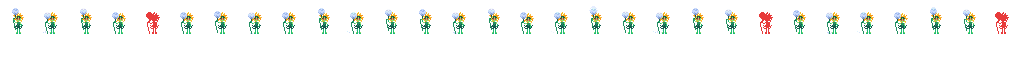
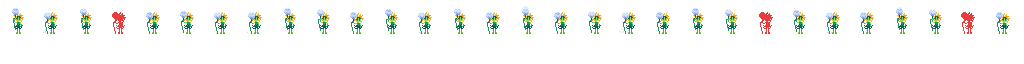
chest animation

diff --git a/core/src/main/java/io/github/some_example_name/screens/LootScreen.java b/core/src/main/java/io/github/some_example_name/screens/LootScreen.java
@@ -7,10 +7,14 @@ import com.badlogic.gdx.scenes.scene2d.ui.*;
 import com.badlogic.gdx.scenes.scene2d.Stage;
 import com.badlogic.gdx.utils.ScreenUtils;
 import com.badlogic.gdx.utils.viewport.ScreenViewport;
+import io.github.some_example_name.Animations;
 import io.github.some_example_name.Main;
 import io.github.some_example_name.Player;
 import io.github.some_example_name.enemies.Enemy;
 import io.github.some_example_name.tools.ToolContainer;
+
+import java.util.HashMap;
+import java.util.Map;
 
 
 public class LootScreen implements Screen {
@@ -27,10 +31,16 @@ public class LootScreen implements Screen {
 
     private final Texture temporary;
 
+    private Animations chestAnimations;
+
     public LootScreen(Main game, Player player, Enemy enemy) {
         this.game = game;
         this.player = player;
         this.enemy = enemy;
+
+        Map<String, Float> chestAnimationData = new HashMap<>();
+        chestAnimationData.put("ChestOpen", 0.1f);
+        chestAnimations = new Animations("atlas/ChestAtlas.atlas", chestAnimationData);
 
         backgroundTexture = new Texture("Backgrounds/lootbg_temp.png");
         backgroundTint = new Texture("Backgrounds/backgroundTint.png");
@@ -43,7 +53,6 @@ public class LootScreen implements Screen {
 
         stage = new Stage(new ScreenViewport());
         stage.addActor(new PauseMenuScreen(game, player, enemy).getPauseButton());
-        player.setupAnimations();
 
         TextButton openChestButton = new TextButton("Open!" ,new Skin(Gdx.files.internal("button/Buttons.json")));
         Table chestTable = new Table();
@@ -53,8 +62,9 @@ public class LootScreen implements Screen {
         rewardStage = new Stage(new ScreenViewport());
 
         openChestButton.addListener(e -> {
-            if (openChestButton.isPressed()) {
+            if (openChestButton.isPressed() && !chestOpen) {
                 chestOpen = true;
+                chestAnimations.performAnimation("ChestOpen");
             }
             return false;
         });
@@ -78,11 +88,14 @@ public class LootScreen implements Screen {
         stage.draw();
 
         if(chestOpen) {
-            player.doArmMovement();
+            player.animateArmMovement();
+            chestAnimations.update(delta);
             //TODO: animation delay
-            //TODO: ANIMATION chest opens
-            drawRewardScreen();
+            if (chestAnimations.isCurrentAnimationFinished()) {
+                drawRewardScreen();
+            }
         }
+
     }
 
     private void drawRoom() {
@@ -92,8 +105,12 @@ public class LootScreen implements Screen {
 
         game.batch.draw(backgroundTexture, 0, 0, game.getWorldWidth(), game.getWorldHeight());
         player.draw(game.batch, 1.1f, 2.2f, 3f, 3.4f);
-        //TODO: ANIMATION
-        game.batch.draw(chestTexture, 4.1f, 2.2f, 3f, 3.4f);
+
+        if (chestOpen) {
+            chestAnimations.draw(game.batch, 4.1f, 2.2f, 3f, 3.4f);
+        } else {
+            game.batch.draw(chestTexture, 4.1f, 2.2f, 3f, 3.4f);
+        }
 
         game.batch.end();
     }

diff --git a/core/src/main/java/io/github/some_example_name/Player.java b/core/src/main/java/io/github/some_example_name/Player.java
@@ -146,7 +146,7 @@ public class Player extends Entity
         actingTool.getMove().setTargetChange(targetChange);
 
         /// performs attack animation
-        doPolearmAttack();
+        animatePolearmAttack();
 
         actingTool.execute(this, super.getTarget());
     }
@@ -187,7 +187,6 @@ public class Player extends Entity
                 public void changed(ChangeEvent event, Actor actor)
                 {
                     setSelectedTool(tmpCurrentSlot);
-                    doPolearmAttack();
                     doMove();
                 }
             });
@@ -309,40 +308,40 @@ public class Player extends Entity
     }
 
     /// temp attack animation
-    public void doPolearmAttack() throws PlayerException {
+    public void animatePolearmAttack() throws PlayerException {
         performAnimation("GardenerPolearmAttack");
     }
 
-    public void doArmMovement() {
+    public void animateArmMovement() {
         performAnimation("GardenerEmptyAttack");
     }
 
-    public void doPolearmIdle() {
+    public void animatePolearmIdle() {
         performAnimation("GardenerPolearmIdle");
     }
 
-    public void takeEmptyDamage() {
+    public void animateTakeEmptyDamage() {
         performAnimation("GardenerEmptyDamage");
     }
 
-    public void takePolearmDamage() {
+    public void animateTakePolearmDamage() {
         performAnimation("GardenerPolearmDamage");
     }
 
     /// rough structure of animations when inventory and weapon types are implemented
     /*
-    public void doAttack() {
+    public void animateAttack() {
         String weaponType = getWeaponType();
         String animName = "Gardener" + weaponType + "Attack";
         performAnimation(animName);
     }
 
-    public void doIdle() {
+    public void animateIdle() {
         String weaponType = getWeaponType();
         performAnimation("Gardener" + weaponType + "Idle");
     }
 
-    public void takeDamage() {
+    public void animateTakeDamage() {
         String weaponType = getWeaponType();
         performAnimation("Gardener" + weaponType + "Damage");
     }

diff --git a/core/src/main/java/io/github/some_example_name/enemies/Enemy.java b/core/src/main/java/io/github/some_example_name/enemies/Enemy.java
@@ -7,17 +7,12 @@ import java.util.HashMap;
 import java.util.Map;
 
 
-import com.badlogic.gdx.graphics.Color;
 import com.badlogic.gdx.graphics.Texture;
 import com.badlogic.gdx.graphics.g2d.SpriteBatch;
-import com.badlogic.gdx.scenes.scene2d.Stage;
-import com.badlogic.gdx.utils.ScreenUtils;
-import com.badlogic.gdx.utils.viewport.ScreenViewport;
 import io.github.some_example_name.Animations;
 import io.github.some_example_name.Entity;
 import io.github.some_example_name.EntityException;
 import io.github.some_example_name.actions.BasicAction;
-import io.github.some_example_name.tools.Tool;
 
 public class Enemy extends Entity implements Serializable
 {
@@ -84,25 +79,25 @@ public class Enemy extends Entity implements Serializable
 
     public void setupAnimations() {
         Map<String, Float> animData = new HashMap<>();
-        animData.put("DefaultIdle", 0.5f);
+        animData.put("Idle", 0.5f);
         animData.put("Attack", 0.08f);
         animData.put("Damage", 0.1f);
 
         Animations enemyAnimations = new Animations("atlas/DandelionAtlas.atlas", animData);
         setAnimations(enemyAnimations);
-        setDefaultAnimation("DefaultIdle");
+        setDefaultAnimation("Idle");
     }
 
     /// performs these animations once
-    public void doDefaultIdle() {
+    public void animateDefaultIdle() {
         performAnimation("DefaultIdle");
     }
 
-    public void takeDamage() {
+    public void animateTakeDamage() {
         performAnimation("Damage");
     }
 
-    public void doAttack() {
+    public void animateAttack() {
         performAnimation("Attack");
     }
 

diff --git a/core/src/main/java/io/github/some_example_name/screens/CombatScreen.java b/core/src/main/java/io/github/some_example_name/screens/CombatScreen.java
@@ -52,11 +52,14 @@ public class CombatScreen implements Screen {
         enemy.setTarget(player);
 
         stage.addActor(new PauseMenuScreen(game, player, enemy).getPauseButton());
-        Button test = new Button(new Skin(Gdx.files.internal("button/Buttons.json")), "combatRoom");
+
 
         Table table = new Table();
         table.top().left().setFillParent(true);
         table.add(new PauseMenuScreen(game, player, enemy).getPauseButton()).size(40, 40).pad(10);
+
+        /// test button, temporary
+        Button test = new Button(new Skin(Gdx.files.internal("button/Buttons.json")), "combatRoom");
         table.add(test).size(55, 55).pad(10);
 
         test.addListener(new ChangeListener()
@@ -64,11 +67,13 @@ public class CombatScreen implements Screen {
             @Override
             public void changed(ChangeEvent event, Actor actor)
             {
-                enemy.doAttack();
+                enemy.animateAttack();
                 enemy.doMove();
+                /// temporary player damage
+                player.animateTakePolearmDamage();
             }
         });
-
+        /// end of test button
 
 
         Button inventoryButton = new Button(new Skin(Gdx.files.internal("button/Buttons.json")), "inventory");

diff --git a/core/src/main/java/io/github/some_example_name/Animations.java b/core/src/main/java/io/github/some_example_name/Animations.java
@@ -45,7 +45,7 @@ public class Animations {
     public void performAnimation(String animationName) {
         Animation<TextureRegion> anim = animations.get(animationName);
         if (anim != null && !animationName.equals(defaultAnimation)) {
-            anim.setPlayMode(Animation.PlayMode.NORMAL); // play once
+            anim.setPlayMode(Animation.PlayMode.NORMAL);
             setCurrentAnimation(anim);
         }
     }
@@ -62,6 +62,10 @@ public class Animations {
     public void setCurrentAnimation(Animation<TextureRegion> animation) {
         this.currentAnimation = animation;
         this.stateTime = 0f;
+    }
+
+    public boolean isCurrentAnimationFinished() {
+        return currentAnimation != null && currentAnimation.isAnimationFinished(stateTime);
     }
 
     public void update(float delta) {
